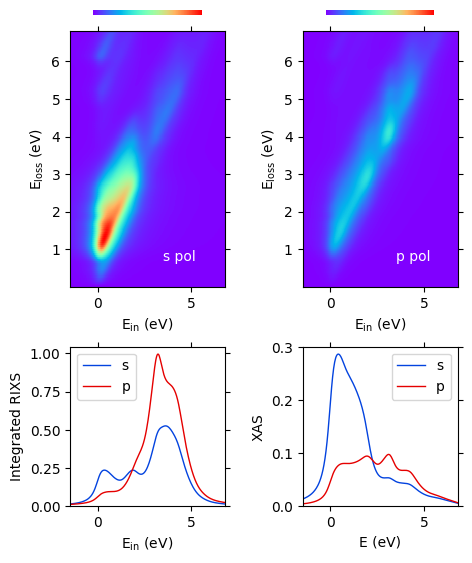
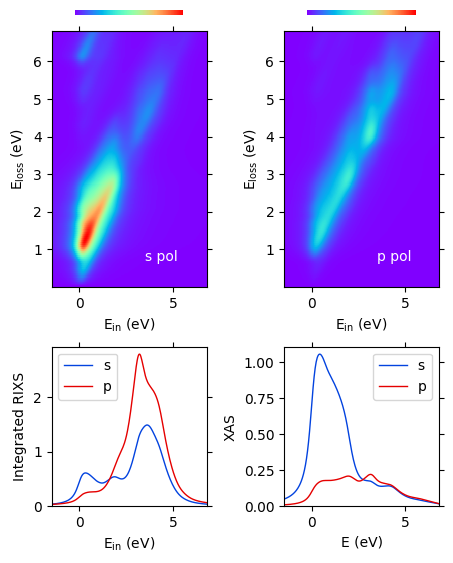
switch to sympy to build core basis

diff --git a/examples/example3.py b/examples/example3.py
@@ -1,7 +1,8 @@
 import numpy as np
 import matplotlib.pyplot as plt;
 import time
-from dosrixs import *
+from dosrixs import build_core_states, build_d_states, build_electric_fields
+from dosrixs import rixs_cross_section, rixs_matrix_elements, xas, xas_matrix_elements
 
 def get_density_of_states(filename):
     data = np.loadtxt(filename)
@@ -33,70 +34,63 @@ def plot_xas(ax, data, **kwargs):
     return ax
 
 # define orbital states
-d_orbitals = [DZ2, DXZ, DYZ, DX2Y2, DXY]
-core_states = build_l2_core_states()
+d_orbitals = build_d_states()
+core_states = build_core_states('l2')
 
 phi = np.deg2rad(180)
 theta = np.deg2rad(15)
 theta_prime = np.deg2rad(15-153)
 
+EX, EY, EZ = build_electric_fields(normal='z')
+
 s_pol      = np.sin(phi)*EX - np.cos(phi)*EY                                                # s, s'
-p_pol      = np.cos(theta)*EZ - np.sin(theta)*(np.cos(phi)*EX + np.sin(phi)*EY)             # p
-pprime_pol = np.cos(theta_prime)*EZ - np.sin(theta_prime)*(np.cos(phi)*EX + np.sin(phi)*EY) # p'
+p_pol      = np.cos(theta)*EZ + np.sin(theta)*(np.cos(phi)*EX + np.sin(phi)*EY)             # p
+pprime_pol = np.cos(theta_prime)*EZ + np.sin(theta_prime)*(np.cos(phi)*EX + np.sin(phi)*EY) # p'
 
 # compute matrix elements \sum_ϵ' M_if(ϵ,ϵ')
 print("--> computing rixs for s and p polarizations", end= " ")
 start = time.perf_counter()
-Ms_rixs = rixs_matrix_elements(d_orbitals, core_states, s_pol, [s_pol, pprime_pol])
-Mp_rixs = rixs_matrix_elements(d_orbitals, core_states, p_pol, [s_pol, pprime_pol])
+pol_rixs = rixs_matrix_elements(d_orbitals, core_states, [s_pol, p_pol], [s_pol, pprime_pol])
 print("finished in  {:.6f} seconds".format(time.perf_counter()-start) )
 
 print("--> computing xas for s and p polarizations", end= " ")
 start = time.perf_counter()
-Ms_xas = xas_matrix_elements(d_orbitals, core_states, s_pol)
-Mp_xas = xas_matrix_elements(d_orbitals, core_states, p_pol)
+pol_xas = xas_matrix_elements(d_orbitals, core_states, [s_pol, p_pol])
 print("finished in  {:.6f} seconds".format(time.perf_counter()-start) )
 
 # compute RISX cross section using DOS and matrix elements
 e_mesh, dos = get_density_of_states('data/liv2o4-cubic-dft.pdos.pdos_atm#3(V)_wfc#3(d)')
 
-print('--> computing s pol rixs cross section', end = " ")
+print('--> computing s pol and p pol rixs cross section', end = " ")
 start = time.perf_counter()
-s_cross_section = rixs_cross_section(e_mesh, dos, Ms_rixs, Emin = -1.0, Emax = +7.0)
-print("finished in  {:.6f} seconds".format(time.perf_counter()-start) )
-start = time.perf_counter()
-print('--> computing p pol rixs cross section', end= " ")
-p_cross_section = rixs_cross_section(e_mesh, dos, Mp_rixs, Emin = -1.0, Emax = +7.0)
+rixs = rixs_cross_section(e_mesh, dos, pol_rixs, Emin = -1.5, Emax = +7.0)
 print("finished in  {:.6f} seconds".format(time.perf_counter()-start) )
 
-print('--> computing s pol xas', end = " ")
+print('--> computing s pol and p pol xas', end = " ")
 start = time.perf_counter()
-s_xas = xas(e_mesh, dos, Ms_xas, Emin = -1.0, Emax = +7.0)
-print("finished in  {:.6f} seconds".format(time.perf_counter()-start) )
-start = time.perf_counter()
-print('--> computing p pol xas', end= " ")
-p_xas = xas(e_mesh, dos, Mp_xas, Emin = -1.0, Emax = +7.0)
+xray = xas(e_mesh, dos, pol_xas, Emin = -1.5, Emax = +7.0)
 print("finished in  {:.6f} seconds".format(time.perf_counter()-start) )
 
 from matplotlib.colors import LinearSegmentedColormap
 def colormap(*args): return LinearSegmentedColormap.from_list('', list(args), N=256)
 
 # plot results
-vmax = np.max(s_cross_section[-1])
+vmax = np.max(rixs[-1][0])
 fig, ax = plt.subplots(2,2, figsize=(5,7), height_ratios=[2,1])
-for a in ax[0,:]:  a.set_xlabel(r"E$_{\text{in}}$ (eV)")
+for a  in ax[0,:]:  a.set_xlabel(r"E$_{\text{in}}$ (eV)")
 for a  in ax[0,:]: a.set_ylabel(r"E$_{\text{loss}}$ (eV)")
-ax[0,0] = plot_cross_section(ax[0,0], s_cross_section,  vmin=0, vmax=vmax, cmap='rainbow'); 
+ax[0,0] = plot_cross_section(ax[0,0], [rixs[0], rixs[1], rixs[2][0]],  vmin=0, vmax=vmax, cmap='rainbow'); 
 ax[0,0].text(0.6, 0.1, 's pol', transform=ax[0,0].transAxes, color='w')
-ax[0,1] = plot_cross_section(ax[0,1], p_cross_section,  vmin=0, vmax=vmax, cmap='rainbow')
+ax[0,1] = plot_cross_section(ax[0,1], [rixs[0], rixs[1], rixs[2][1]],  vmin=0, vmax=vmax, cmap='rainbow')
 ax[0,1].text(0.6, 0.1, 'p pol', transform=ax[0,1].transAxes, color='w')
 
-ax[1,0]= plot_integrated_cross_section(ax[1,0], s_cross_section, lw=1, color='xkcd:blue', label='s')
-ax[1,0]= plot_integrated_cross_section(ax[1,0], p_cross_section, lw=1, color='xkcd:red', label='p')
+ax[1,0]= plot_integrated_cross_section(ax[1,0], [rixs[0], rixs[1], rixs[2][0]], lw=1, color='xkcd:blue', label='s')
+ax[1,0]= plot_integrated_cross_section(ax[1,0], [rixs[0], rixs[1], rixs[2][1]], lw=1, color='xkcd:red', label='p')
 ax[1,0].set_ylabel('Integrated RIXS'); ax[1,0].set_xlabel(r"E$_{\text{in}}$ (eV)"); ax[1,0].legend(loc='best'); ax[1,0].set_ylim(0, )
 
-ax[1,1]= plot_xas(ax[1,1], s_xas, lw=1, color='xkcd:blue', label='s')
-ax[1,1]= plot_xas(ax[1,1], p_xas, lw=1, color='xkcd:red', label='p')
+ax[1,1]= plot_xas(ax[1,1], [xray[0], xray[1][0]], lw=1, color='xkcd:blue', label='s')
+ax[1,1]= plot_xas(ax[1,1], [xray[0], xray[1][1]], lw=1, color='xkcd:red', label='p')
 ax[1,1].set_xlabel(r"E (eV)"); ax[1,1].set_ylabel("XAS"); ax[1,1].legend(loc='best'); ax[1,1].set_ylim(0, )
-plt.subplots_adjust(hspace=0.25, wspace=0.3)
+plt.subplots_adjust(hspace=0.25, wspace=0.5)
+plt.savefig('data/example3-output.png', bbox_inches='tight')
 plt.show()

diff --git a/dosrixs/dosrixs.py b/dosrixs/dosrixs.py
@@ -3,7 +3,7 @@ from typing import Literal, cast
 import numpy as np
 from scipy.integrate import simpson
 
-from .utils import gaunt
+from .utils import gaunt, gaunt_sympy
 from .ylmexpansion import YlmExpansion
 
 # Define the d-orbitals in terms of YlmExpansions
@@ -55,7 +55,12 @@ def build_d_states(order:list[DORBITAL]=["dz2", "dxy", "dx2y2", "dxz", "dyz"]) -
     # if order not in valid: raise Exception(f"The argument {order} is not a valid option! The valid options are {valid}")
     # if order == 'wien2k': return [DZ2, DXY, DX2Y2, DYZ, DXZ]
 
-EDGE = Literal["l2", "l3"]
+EDGE = Literal["L2", "L3"]
+
+def get_core_edge_quantum_numbers(edge:EDGE) -> dict[str, float]:
+    if   edge == "L2":  return {'n' : 2, 'l' : 1, 'j' : 0.5}
+    elif edge == "L3": return {'n' : 2, 'l' : 1, 'j' : 1.5}
+
 def build_core_states(edge:EDGE) -> list[YlmExpansion]: 
     """The core states for the a given RIXS edge process
 
@@ -64,27 +69,29 @@ def build_core_states(edge:EDGE) -> list[YlmExpansion]:
     :return: the core states corresponding to the RIXS process given by edge.
     :rtype: list[YlmExpansion]
     """
-    if edge == "l2":
-        return [ 
-                 YlmExpansion(l=1, data= { (+1,+1) : np.sqrt(2.0)/np.sqrt(3), (0,0) : +1.0/np.sqrt(3) }), # 2p1/2
-                 YlmExpansion(l=1, data= { (-1,0)  : np.sqrt(2.0)/np.sqrt(3), (0,+1): +1.0/np.sqrt(3) }), # 2p-1/2
-                ]
-    elif edge == "l3":
-        return [ YlmExpansion(l=1, data= { (+1,0)  : 1.0 } ),
-                 YlmExpansion(l=1, data= { (+1,+1) : np.sqrt(2.0)/np.sqrt(3), (0,0) : +1.0/np.sqrt(3) }), # 2p1/2
-                 YlmExpansion(l=1, data= { (-1,0)  : np.sqrt(2.0)/np.sqrt(3), (0,+1): +1.0/np.sqrt(3) }), # 2p-1/2
-                 YlmExpansion(l=1, data= { (-1,+1) : 1.0} )
-                ]
+    quantum_numbers = get_core_edge_quantum_numbers(edge)
+    l, j, s = int(quantum_numbers['l']), quantum_numbers['j'], 0.5
+
+    spin2idx = lambda x : 0 if x > 0 else 1
+
+    core_states:list[YlmExpansion] = []
+    for mj in [x for x in np.arange(-j, j+s, s) if x != 0]:
+        data = {}
+        for m in range(-l, l+1):
+            for spin in [-s, s]:
+                data[(m, spin2idx(spin))] = gaunt_sympy(l, m, s, spin, j, mj)
+        core_states.append(YlmExpansion(l=l, data=data))
+    return core_states
 
 # computes the integral ∫ dΩ Y(lc, mc)*Y(l=1,mq)*Y(ld, md), which
 # reduces to gaunt coefficients, G(mc, mq, md). 
 def dipole(core_state:YlmExpansion, state:YlmExpansion, polarization:YlmExpansion) -> complex:
     # spin_flip = lambda m : -1 if abs(m) == 1 else 1
     result = 0.0+0.0j
-    for (m_d, spin_d, coeff_d) in state:
-        for (m_c, spin_c, coeff_c) in core_state:
+    for (m_d, _, coeff_d) in state:
+        for (m_c, _, coeff_c) in core_state:
             for (m_q, _, coeff_q) in polarization:
-                result += coeff_c*coeff_d*coeff_q*gaunt(m_c, m_q, m_d)
+                result += coeff_c*coeff_d*coeff_q*gaunt(m1=m_c,m2=m_q,m3=m_d)
     return result
 
 # computes the transition amplitude | ∑c <f|ε'|c><c|ε|i>.|^2 

diff --git a/dosrixs/ylmexpansion.py b/dosrixs/ylmexpansion.py
@@ -10,7 +10,9 @@ class YlmExpansion(object):
     def __iter__(self:YlmExpansion):
         for x, y in self._data.items(): yield x[0], x[1], y
 
-    def __repr__(self) -> str:  return " ".join([f"{val}*Y({self._l},{key})" for (key, val) in self._data.items() if val != 0.0+0.0j ])
+    def __repr__(self) -> str:  
+        idx2spin = lambda x : '↑' if x > 0 else '↓'
+        return " ".join([f"{val}*|{self._l},{key[0]}>⊗|{idx2spin(key[1])}>" for (key, val) in self._data.items() if val != 0.0+0.0j ])
 
     __str__ = __repr__
 
@@ -19,5 +21,11 @@ class YlmExpansion(object):
     def __rmul__(self, x) -> YlmExpansion : return YlmExpansion(l=self._l,  data={key : val*x for key, val in self._data.items() })
 
     # addition
-    def __add__(self, x:YlmExpansion) -> YlmExpansion : return YlmExpansion(l=self._l, data={key : self[key] + x[key] for key in set(self._data.keys()).union(x._data.keys()) })
-    def __sub__(self, x:YlmExpansion) -> YlmExpansion : return YlmExpansion(l=self._l, data={key : self[key] - x[key] for key in set(self._data.keys()).union(x._data.keys()) })
+    def __add__(self, x:YlmExpansion) -> YlmExpansion : 
+        assert self._l == x._l, f"Can not do arithmetic with YlmExpansions of different angular quantum numbers {self._l} != {x._l}"
+        return YlmExpansion(l=self._l, data={key : self[key] + x[key] for key in set(self._data.keys()).union(x._data.keys()) })
+
+    # subtraction
+    def __sub__(self, x:YlmExpansion) -> YlmExpansion : 
+        assert self._l == x._l, f"Can not do arithmetic with YlmExpansions of different angular quantum numbers {self._l} != {x._l}"
+        return YlmExpansion(l=self._l, data={key : self[key] - x[key] for key in set(self._data.keys()).union(x._data.keys()) })

diff --git a/dosrixs/utils.py b/dosrixs/utils.py
@@ -1,6 +1,7 @@
 from __future__ import annotations 
 import numpy as np
 from scipy.special import factorial as fact
+from sympy.physics.quantum.cg import CG
 
 def print_matrix(A:np.ndarray)->None:
     for row in A:
@@ -38,9 +39,9 @@ def three_j_symbol(j1:int, m1:int, j2:int, m2:int, j3:int, m3:int) -> float:
     t_sum = sum ( [(-1.0 if t % 2 else 1.0)/(fact(t)*fact(j3-j2+m1+t)*fact(j3-j1-m2+t)*fact(j1+j2-j3-t)*fact(j1-m1-t)*fact(j2+m2-t)) 
                    for t in range(max(j2-j3-m1,j1-j3+m2,0),min(j1-m1,j2+m2,j1+j2-j3)+1)])
     three_j_sym *= t_sum
-    return three_j_sym
+    return float(three_j_sym)
 
-def gaunt(m1:int, m2:int, m3:int) -> float:
+def gaunt(l1:int=1, l2:int=1, l3:int=2, m1:int=0, m2:int=0, m3:int=0) -> float:
     """_summary_
 
     :param m1: _description_
@@ -52,9 +53,10 @@ def gaunt(m1:int, m2:int, m3:int) -> float:
     :return: _description_
     :rtype: float
     """
-    l1, l2, l3 = 1,1,2
     coeff = np.sqrt(45.0/np.arctan(1.0)/16.0)
     a = three_j_symbol(l1, 0, l2, 0, l3, 0)
     b = three_j_symbol(l1, m1, l2, m2, l3, m3)
     return coeff*a*b
 
+def gaunt_sympy(l1:float, m1:float, l2:float, m2:float, l3:float, m3:float) -> complex:
+    return complex(CG(l1, m1, l2, m2, l3, m3).doit())

diff --git a/examples/example2.py b/examples/example2.py
@@ -15,7 +15,7 @@ def get_density_of_states(filename):
 
 def plot_cross_section(ax, data, **kwargs):
     ax.tick_params(which ='both', direction='out', top=True, right=True)
-    img = ax.pcolormesh(data[-3], data[-2],data[-1].T, **kwargs)
+    img = ax.pcolormesh(data[-3], data[-2],data[-1][0].T, **kwargs)
     cbar = fig.colorbar(img, ax=ax, location='top', orientation='horizontal', shrink=0.7)
     cbar.set_ticks([])
     cbar.outline.set_visible(False)

diff --git a/setup.py b/setup.py
@@ -9,5 +9,5 @@ setup(name="dosrixs",
       url="https://github.com/harrisonlabollita/dosrixs",
       packages=['dosrixs'],
       license='MIT',
-      install_requires=["numpy", "scipy"]
+      install_requires=["numpy", "scipy", "sympy"]
       )

diff --git a/examples/example1.py b/examples/example1.py
@@ -38,7 +38,7 @@ def plot_xas(ax, data, **kwargs):
 
 # define orbital states
 d_orbitals = build_d_states()
-core_states = build_core_states('l2')
+core_states = build_core_states('L3')
 
 phi = np.deg2rad(180)
 theta = np.deg2rad(15)
